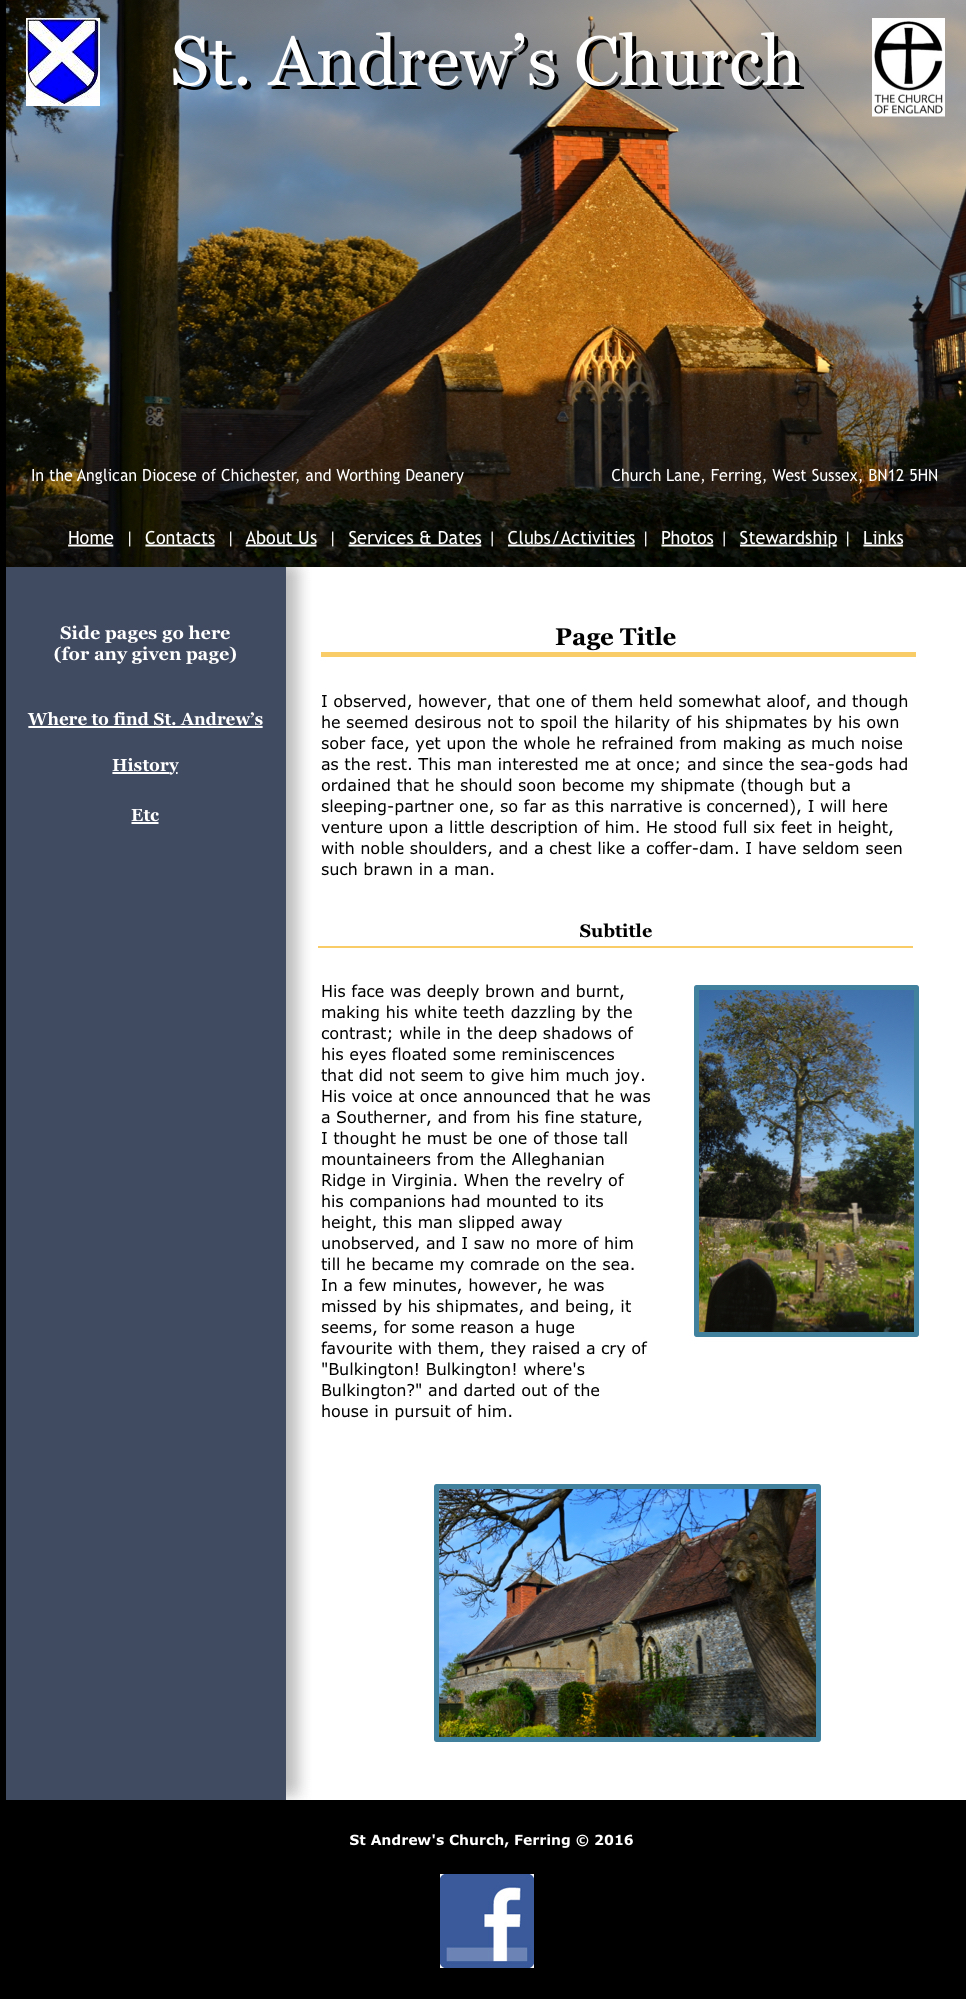
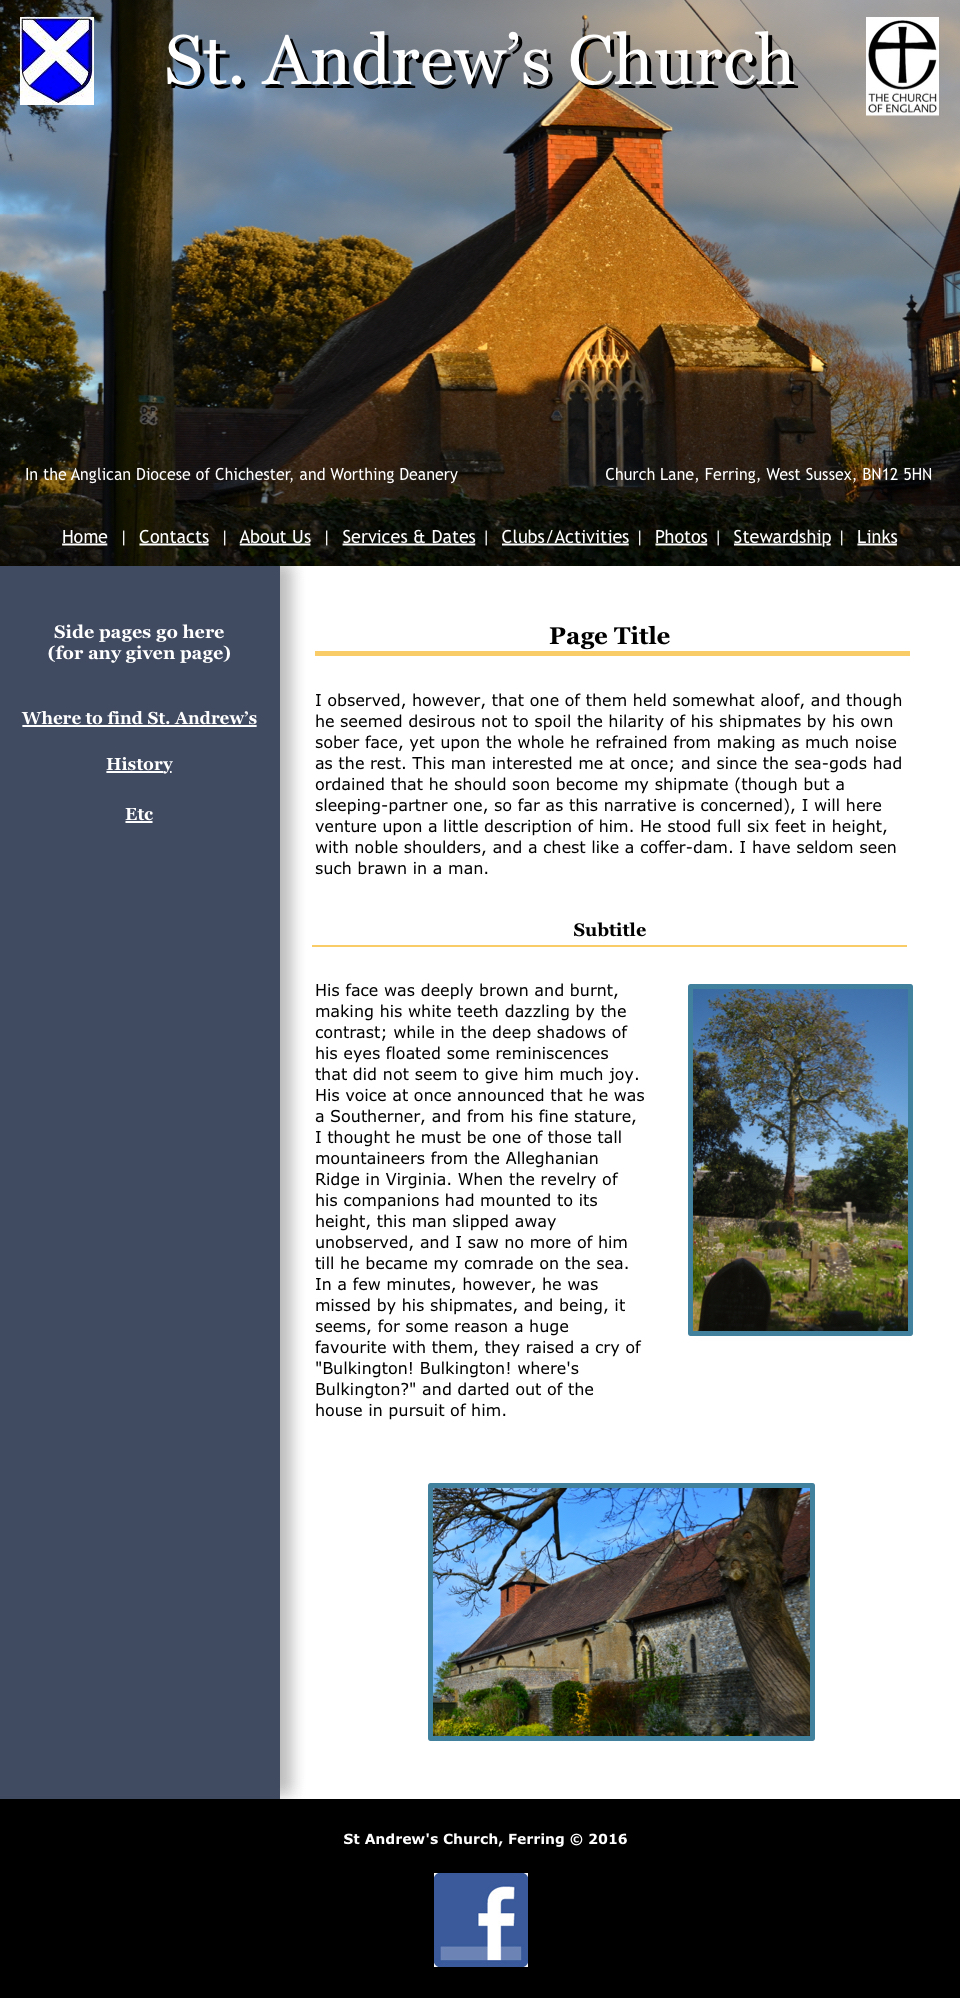
Image map & demo complete
Set image map and linked home and content together, added background
colour and generally polished. Centred it too to preview what it will
look like.

diff --git a/image map demo/content.html b/image map demo/content.html
@@ -1,3 +1,16 @@
+<head>
+
+<style>
+  body { margin: 0; border: 0; background: #42829d; }
+  #container { width: 960; margin: 0 auto; border: 0; }
+  map { border: 0; }
+</style>
+
+</head>
+
+<div id="container">
 <map name="GraffleExport">
+  <area href="home.html" shape="rect" coords="50,500,1000,550" alt="" title="" />
 </map>
-<img border=0 src="file:///Users/Paul/Documents/Github/standrews-demo-2016/image%20map%20demo/St%20Andrews%20Demo/St%20Andrews%20Demo/St%2520Andrews%2520Demo.jpg" usemap="#GraffleExport">
+<img border=0 src="content.jpg" usemap="#GraffleExport">
+</div>

diff --git a/image map demo/home.html b/image map demo/home.html
@@ -1,3 +1,16 @@
+<head>
+
+<style>
+  body { margin: 0; border: 0; background: #42829d; }
+  #container { width: 960; margin: 0 auto; border: 0; }
+  map { border: 0; }
+</style>
+
+</head>
+
+<div id="container">
 <map name="GraffleExport">
+  <area href="content.html" shape="rect" coords="50,500,1000,550" alt="" title="" />
 </map>
-<img border=0 src="file:///Users/Paul/Documents/Github/standrews-demo-2016/image%20map%20demo/St%20Andrews%20Demo/St%2520Andrews%2520Demo.jpg" usemap="#GraffleExport">
+<img border=0 src="home.jpg" usemap="#GraffleExport">
+</div>
